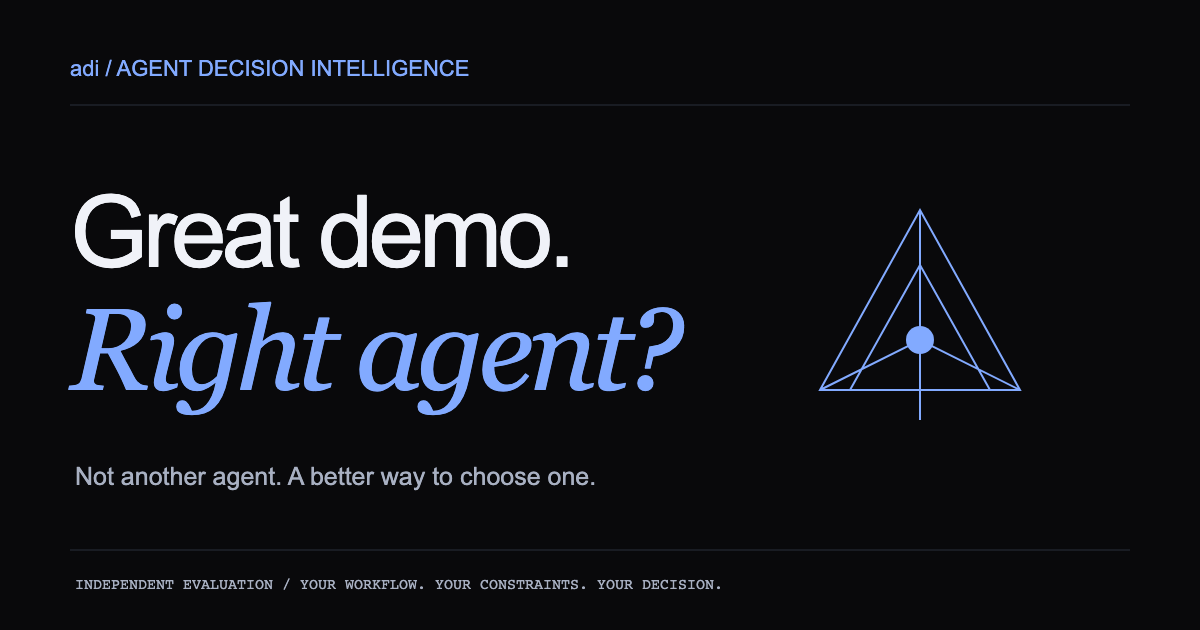
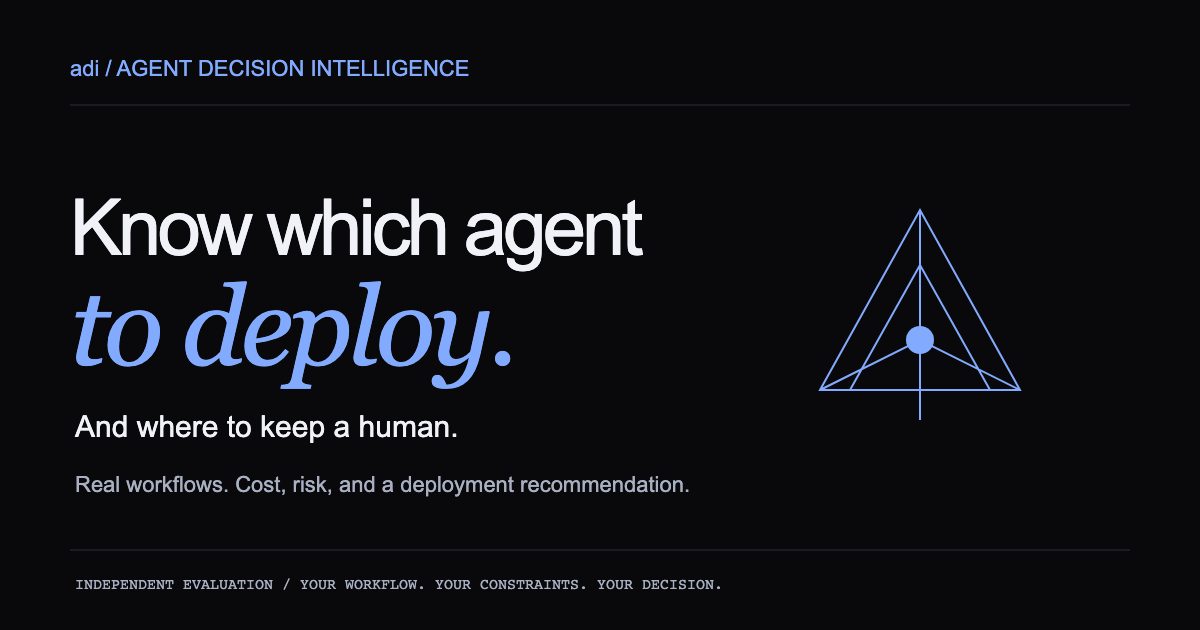
content: make the deployment value proposition explicit in the hero
State which agents to deploy, where humans remain involved, what the evaluation covers, and what customers receive. Align calls to action and sharing metadata; verify the offer and primary action fit before scrolling on laptop and mobile.

Copilot-Session: 2b048a50-aa6f-4f32-8f13-0eb2f409a013

Changed region(s): [[0.0617, 0.3016, 0.5858, 0.6937], [0.0617, 0.7238, 0.5858, 0.7841]]

diff --git a/index.html b/index.html
@@ -6,13 +6,13 @@
     <meta name="viewport" content="width=device-width, initial-scale=1.0" />
     <meta
       name="description"
-      content="Great demo. Right agent? Independent, workflow-specific evaluation to help you choose AI agents with evidence about quality, cost, risk, and human oversight."
+      content="Compare AI agents on your real workflows. Understand failure costs, human review, and which agent to deploy—with supporting evidence and limitations."
     />
     <meta property="og:type" content="website" />
-    <meta property="og:title" content="ADI — Great demo. Right agent?" />
+    <meta property="og:title" content="ADI — Know which agent to deploy." />
     <meta
       property="og:description"
-      content="Not another agent. A better way to choose one. Independent evaluation for real-world deployment decisions."
+      content="We compare AI agents on your real workflows, measure the cost and consequences of failure, and recommend what to automate, review, or keep manual."
     />
     <meta
       property="og:image"
@@ -22,7 +22,7 @@
     <meta property="og:image:height" content="630" />
     <meta
       property="og:image:alt"
-      content="ADI — Great demo. Right agent? Not another agent. A better way to choose one."
+      content="ADI — Know which agent to deploy. And where to keep a human."
     />
     <meta name="twitter:card" content="summary_large_image" />
     <meta
@@ -152,23 +152,29 @@
         </div>
         <div class="hero-grid">
           <div class="hero-copy">
-            <h1 id="hero-title">Great demo.<em>Right agent?</em></h1>
+            <h1 id="hero-title">
+              Know which agent <br />to deploy.
+              <em>And where to <br />keep a human.</em>
+            </h1>
             <p>
-              Your workflow isn’t a benchmark. Choose AI agents with evidence
-              about what works, what fails, and what it really costs.
+              We compare AI agents on your real workflows, measure the cost and
+              consequences of failure, and recommend what to automate, review,
+              or keep manual.
             </p>
+            <div class="hero-caption">
+              <strong>You get:</strong> a comparative evaluation and a
+              deployment recommendation, with the supporting evidence and
+              limitations.
+            </div>
             <div class="hero-actions">
               <a class="button" href="#pilot"
-                >Make a better decision
+                >Explore an evaluation pilot
                 <span class="arrow" aria-hidden="true">↗</span></a
               >
               <a class="text-link" href="#why"
-                >See the difference
+                >See a worked example
                 <span class="arrow" aria-hidden="true">↓</span></a
               >
-            </div>
-            <div class="hero-caption">
-              Not another agent. A better way to choose one.
             </div>
           </div>
           <div class="hero-art">

diff --git a/tests/landing.spec.ts b/tests/landing.spec.ts
@@ -52,7 +52,7 @@ test("loads with local assets, honest positioning and no runtime errors", async 
   await page.evaluate(() => document.fonts.ready);
   await expect(page).toHaveTitle("ADI — Agent Decision Intelligence");
   await expect(page.getByRole("heading", { level: 1 })).toHaveText(
-    "Great demo.Right agent?",
+    "Know which agent to deploy. And where to keep a human.",
   );
   await expect(page.getByText("Seeking design partners")).toBeVisible();
   await expect(
@@ -63,6 +63,32 @@ test("loads with local assets, honest positioning and no runtime errors", async 
   expect(errors).toEqual([]);
   expect(failures).toEqual([]);
   expect(externalRequests).toEqual([]);
+});
+
+test("hero explains the service and deliverable before scrolling", async ({
+  page,
+}) => {
+  for (const viewport of [
+    { width: 1280, height: 800 },
+    { width: 390, height: 844 },
+  ]) {
+    await page.setViewportSize(viewport);
+    await page.evaluate(() => document.fonts.ready);
+    await expect(page.locator(".hero-copy > p")).toContainText(
+      "We compare AI agents on your real workflows",
+    );
+    await expect(page.locator(".hero-caption")).toContainText(
+      "a comparative evaluation and a deployment recommendation",
+    );
+    const action = page.getByRole("link", {
+      name: "Explore an evaluation pilot",
+      exact: true,
+    });
+    const bounds = await action.boundingBox();
+    expect(bounds).not.toBeNull();
+    expect(bounds!.y).toBeGreaterThan(0);
+    expect(bounds!.y + bounds!.height).toBeLessThanOrEqual(viewport.height);
+  }
 });
 
 test("has no horizontal overflow at representative viewport widths", async ({

diff --git a/src/style.css b/src/style.css
@@ -314,19 +314,19 @@ em {
   padding: 48px 0 63px;
 }
 h1 {
-  font-size: clamp(72px, 6.8vw, 104px);
+  font-size: clamp(36px, 4.5vw, 64px);
   line-height: 0.99;
   letter-spacing: -0.065em;
 }
 h1 em {
   display: block;
-  font-size: 1.13em;
+  font-size: 1.08em;
   letter-spacing: -0.045em;
   line-height: 1.04;
   color: var(--accent);
 }
 .hero-copy > p {
-  max-width: 375px;
+  max-width: 450px;
   font-size: 15px;
   color: var(--muted);
   margin-top: 29px;
@@ -339,9 +339,15 @@ h1 em {
   margin-top: 31px;
 }
 .hero-caption {
-  margin-top: 25px;
-  font-size: 10px;
+  max-width: 450px;
+  margin-top: 20px;
+  font-size: 12px;
+  line-height: 1.6;
   color: var(--muted);
+}
+.hero-caption strong {
+  color: var(--ink);
+  font-weight: 500;
 }
 .hero-art {
   --art-grid: light-dark(#b3c4e6, #465c88);
@@ -1253,7 +1259,7 @@ body:has(.pilot-dialog[open]) {
     gap: 20px;
   }
   h1 {
-    font-size: clamp(64px, 7.6vw, 84px);
+    font-size: clamp(36px, 4.5vw, 64px);
   }
   .hero-copy > p {
     max-width: 330px;
@@ -1335,7 +1341,7 @@ body:has(.pilot-dialog[open]) {
     padding: 43px 0 35px;
   }
   h1 {
-    font-size: clamp(63px, 12vw, 88px);
+    font-size: clamp(32px, 9.5vw, 56px);
   }
   .hero-copy > p {
     font-size: 14px;
